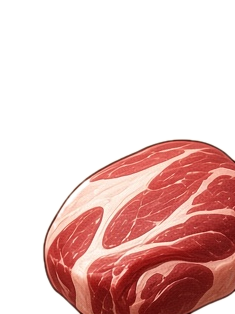
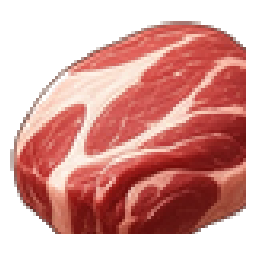
fix: 手机端设施卡片定位+素材图标重建+皮肤滤镜覆盖建筑贴片
- FacilityPanel: scrollIntoView 在抽屉入场动画期间算错滚动位（聚焦卡片被顶出视口只露 3/4），改为 rAF 收敛式 scrollTo，动画停稳自动居中
- 12 张 mat-*.png 重建：源图白底抠图时白色主体（灵米/妖盐）被整体抠掉、丹药·普源图顶部切边、妖兽肉跨格溢出；灵米/妖盐/丹药·普重新生成（品红底抠图），肉用跨格 bbox 重切，全部清杂点+白边侵蚀+256 居中
- DayScreen: 皮肤 filter 只作用于场景背景、建筑贴片不变色（穿皮肤像没穿全），现将 skinFilter 合并进贴片 drop-shadow

diff --git a/game/src/components/game/panels/FacilityPanel.tsx b/game/src/components/game/panels/FacilityPanel.tsx
@@ -155,9 +155,33 @@ export function FacilityPanel({ open, onOpenChange, focusKey }: FacilityPanelPro
     prevOpen.current = true
     if (!focusKey) return
     setHighlight(focusKey)
+    // 用 rAF 收敛式滚动代替 scrollIntoView：抽屉入场动画（transform）会干扰
+    // scrollIntoView 的几何计算，导致聚焦卡片被顶出视口（手机端只露出 3/4）。
+    // 逐帧重算目标位置直到动画停稳、目标值不再变化。
+    const scrollCardIntoView = (card: HTMLDivElement) => {
+      const vp = card.closest('[data-radix-scroll-area-viewport]') as HTMLElement | null
+      if (!vp) return
+      let last = Number.NaN
+      const tick = () => {
+        const target = Math.max(
+          0,
+          card.getBoundingClientRect().top -
+            vp.getBoundingClientRect().top +
+            vp.scrollTop -
+            (vp.clientHeight - card.offsetHeight) / 2
+        )
+        if (Number.isNaN(last) || Math.abs(target - last) > 1) {
+          last = target
+          vp.scrollTo({ top: target })
+          requestAnimationFrame(tick)
+        }
+      }
+      requestAnimationFrame(tick)
+    }
     const timer = setTimeout(() => {
-      cardRefs.current[focusKey]?.scrollIntoView({ behavior: 'smooth', block: 'center' })
-    }, firstOpen ? 380 : 60)
+      const card = cardRefs.current[focusKey]
+      if (card) scrollCardIntoView(card)
+    }, firstOpen ? 500 : 60)
     const clear = setTimeout(() => setHighlight(null), 2800)
     return () => {
       clearTimeout(timer)

diff --git a/game/src/components/game/DayScreen.tsx b/game/src/components/game/DayScreen.tsx
@@ -770,7 +770,9 @@ export function DayScreen({ onOpenPanel, onNight, onBossNight }: DayScreenProps)
                   animate={{ y: 0, opacity: 1 }}
                   transition={{ duration: 0.5, ease: 'easeOut' }}
                   className="w-full"
-                  style={{ filter: 'drop-shadow(0 6px 8px rgba(60,40,20,0.35))' }}
+                  style={{
+                    filter: `${skinFilter === 'none' ? '' : `${skinFilter} `}drop-shadow(0 6px 8px rgba(60,40,20,0.35))`,
+                  }}
                   draggable={false}
                 />
               </span>
